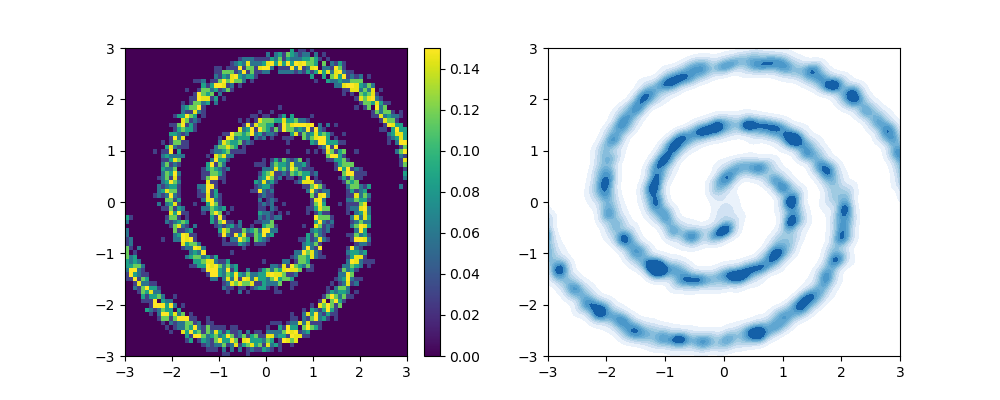
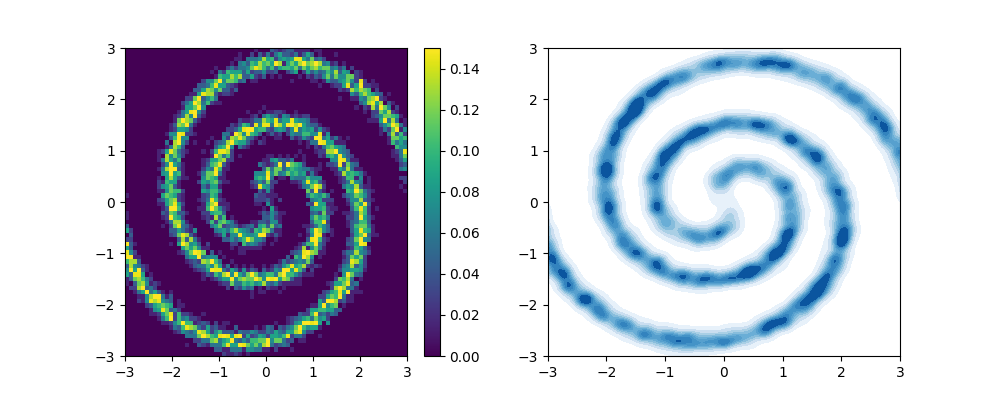
generic commit

diff --git a/scripts/transport/kvae_flow2.py b/scripts/transport/kvae_flow2.py
@@ -702,7 +702,7 @@ def run():
     ref_gen = sample_normal
     target_gen = sample_spirals
     N = 3000
-    two_d_exp(ref_gen, target_gen, N, n_iter=101, plt_range=[[-3, 3], [-3, 3]], process_funcs=[], skip_idx=1,
+    two_d_exp(ref_gen, target_gen, N, n_iter=31, plt_range=[[-3, 3], [-3, 3]], process_funcs=[], skip_idx=1,
               slice_vals=[0], slice_range=[-3, 3], exp_name='spiral_kflow2', n_transports=60, vmax=.15)
 
 
